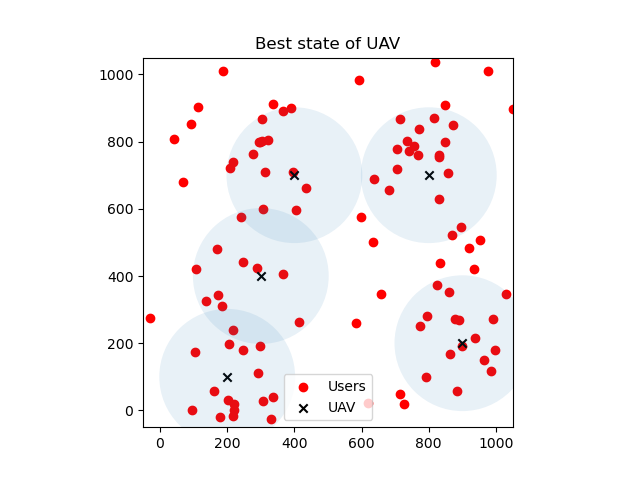
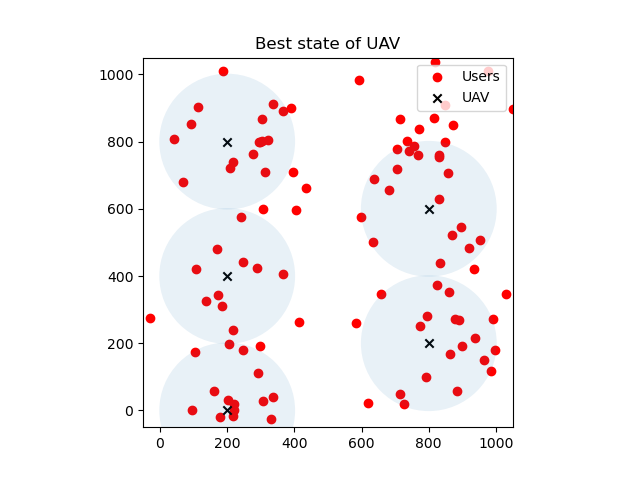
Code added to save episodic data

diff --git a/uav_env.py b/uav_env.py
@@ -273,13 +273,12 @@ class UAVenv(gym.Env):
         reward = 0
         for k in range(self.NUM_UAV):
             if self.flag[k] != 0:
+                # Only penalized if the respective UAV is out of bound
                 sum_user_assoc_temp[k] -= 2
-                temp_user_id = np.where(dist_uav_uav[k, :] <= self.UAV_DIST_THRS)
-                reward_ind[k] = np.average(sum_user_assoc_temp[temp_user_id])
+                reward_ind[k] = np.average(sum_user_assoc_temp)
                 isDone = True
             else:
-                temp_user_id = np.where(dist_uav_uav[k, :] <= self.UAV_DIST_THRS)
-                reward_ind[k] = np.average(sum_user_assoc[temp_user_id])
+                reward_ind[k] = np.average(sum_user_assoc)
         reward = np.copy(reward_ind)
         
         # Defining the reward function by the number of covered user

diff --git a/main.py b/main.py
@@ -126,16 +126,16 @@ u_env = UAVenv()
 GRID_SIZE = u_env.GRID_SIZE
 NUM_UAV = u_env.NUM_UAV
 NUM_USER = u_env.NUM_USER
-num_episode = 350
+num_episode = 450 
 num_epochs = 100
 discount_factor = 0.95
-alpha = 1e-4
+alpha = 3.5e-4
 batch_size = 512
 update_rate = 10  #50
 dnn_epoch = 1
-epsilon = 0.90
+epsilon = 0.10
 epsilon_min = 0.10
-epsilon_decay = 1500
+epsilon_decay = 1
 random.seed(SEED)
 
 # Keeping track of the episode reward
@@ -151,7 +151,6 @@ UAV_OB = [None, None, None, None, None]
 
 for k in range(NUM_UAV):
             UAV_OB[k] = DQL()
-
 best_result = 0
 
 for i_episode in range(num_episode):
